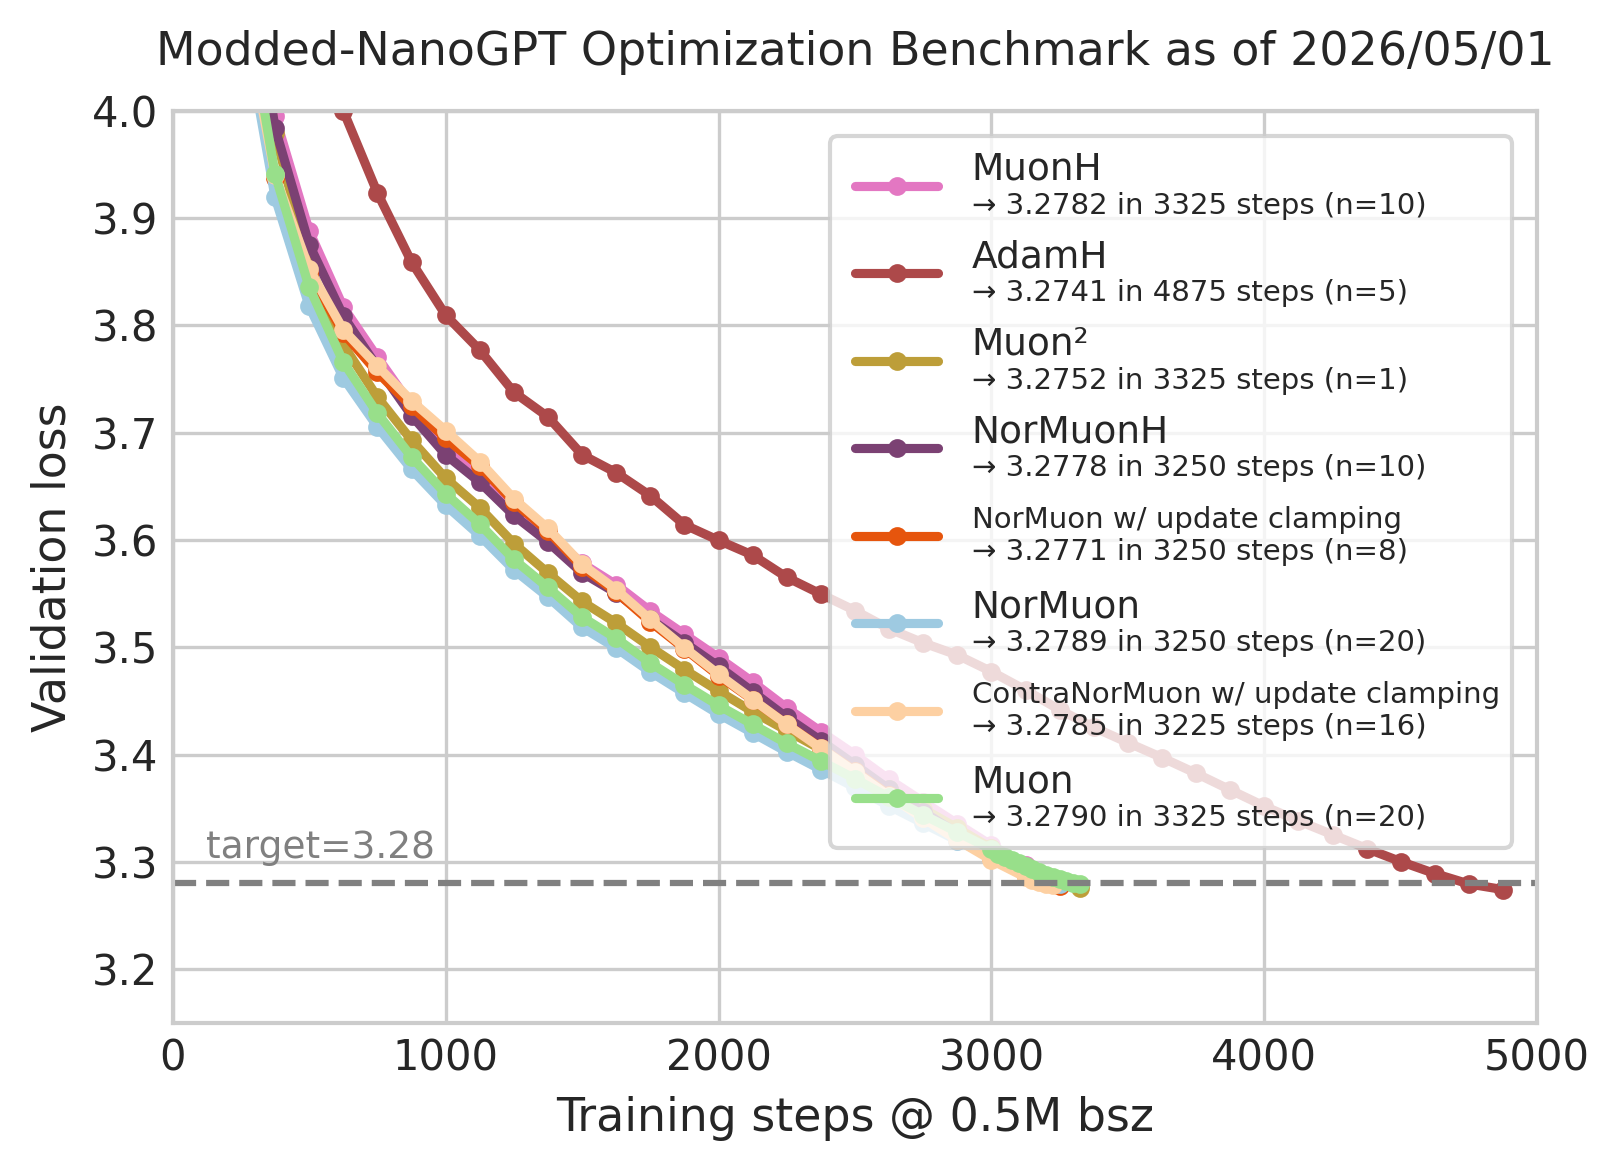
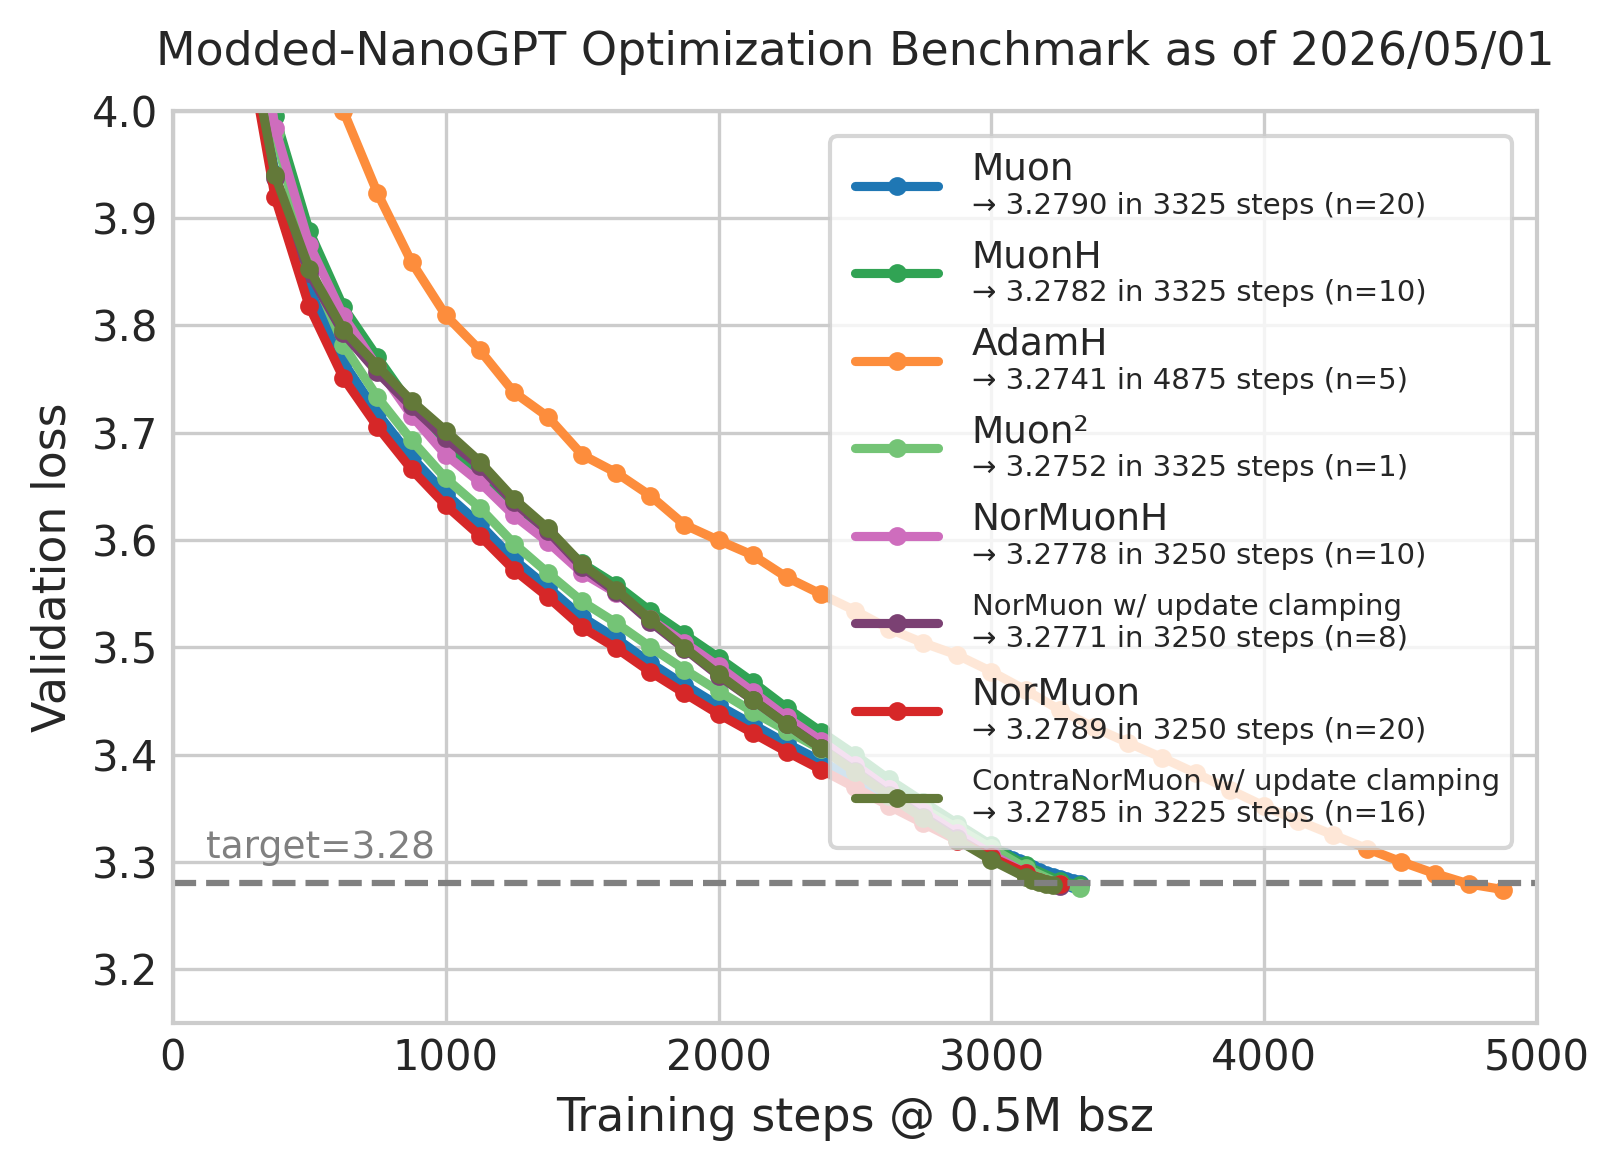
.

diff --git a/records/track_3_optimization/make_figures.py b/records/track_3_optimization/make_figures.py
@@ -133,7 +133,7 @@ color_cycle = [
     *plt.colormaps['tab20b'].colors,
     *plt.colormaps['tab20c'].colors,
 ]
-random.Random(0).shuffle(color_cycle)
+random.Random(46).shuffle(color_cycle)
 
 max_step = 0
 results = {}
